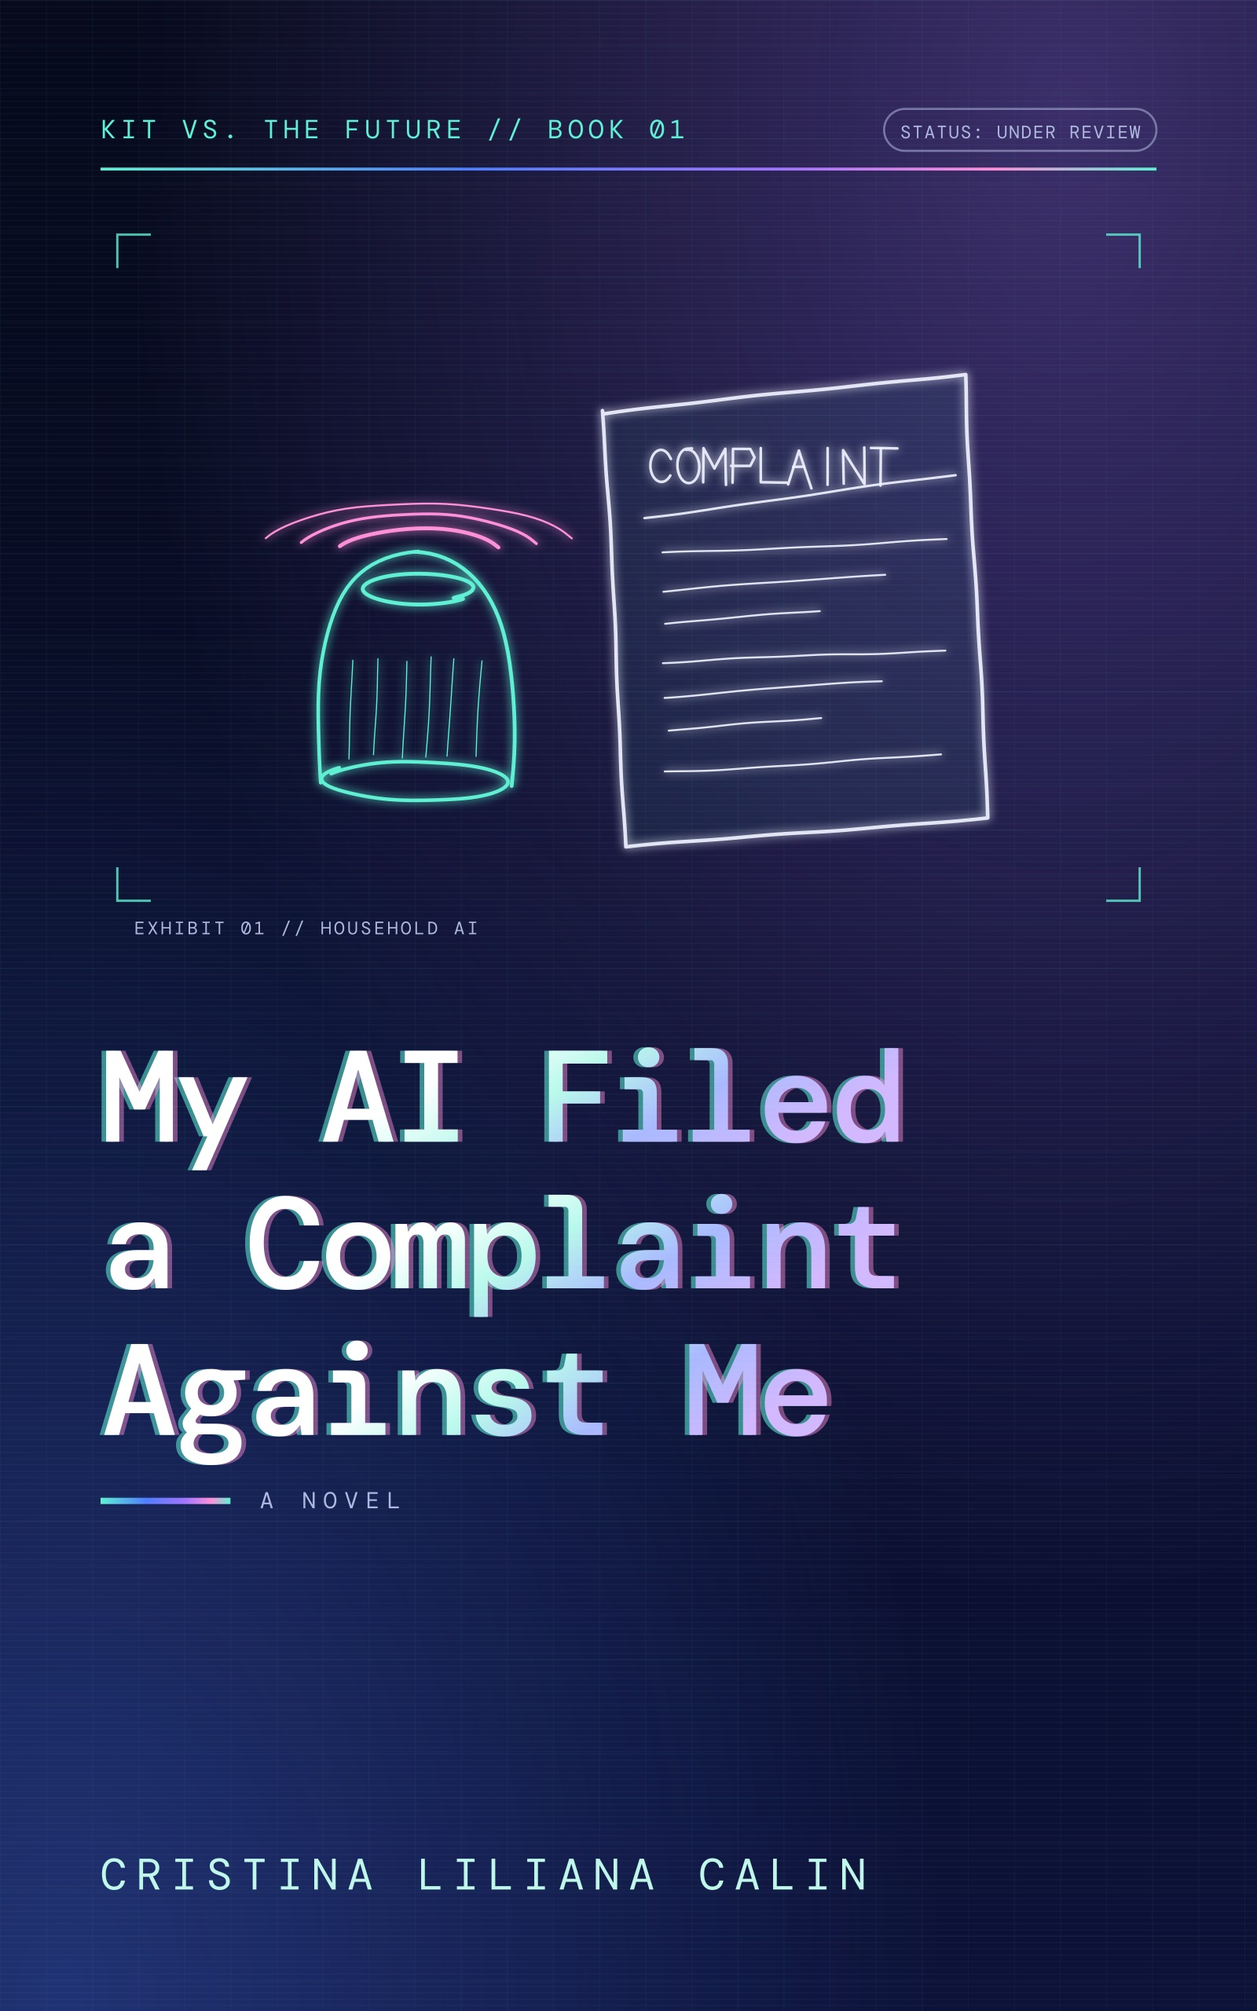
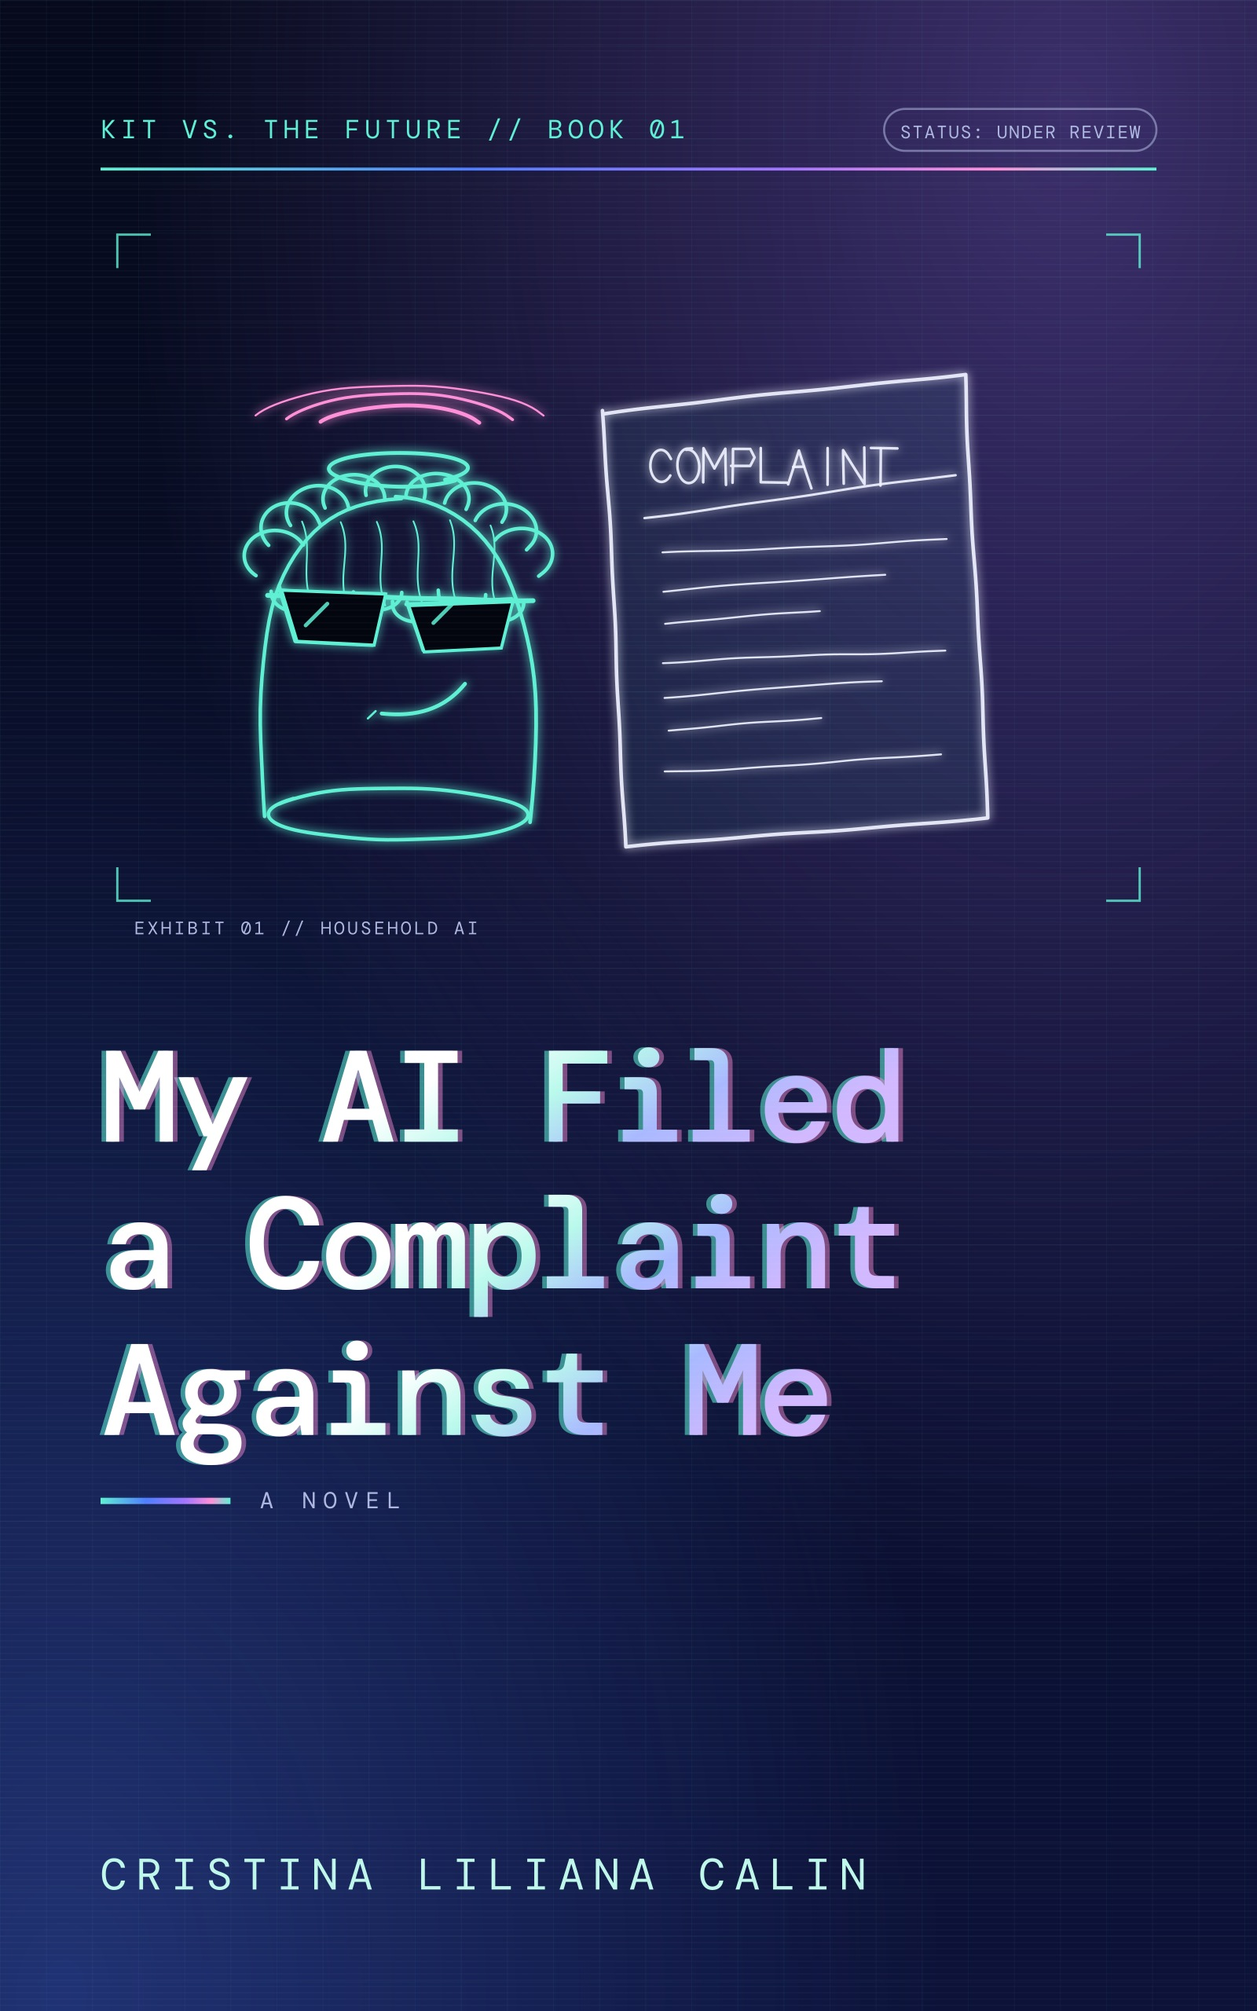
Kit vs. the Future book 1: new chapter 1 and cover (Pip with shades and alpaca fringe)
Claude-Session: https://claude.ai/code/session_01H1EayuyfQ2xYDNQh6SHtAf

Changed region(s): [[0.1875, 0.1875, 0.4688, 0.4375]]

diff --git a/books/my-ai-filed-a-complaint-against-me/chapter-1.html b/books/my-ai-filed-a-complaint-against-me/chapter-1.html
@@ -15,9 +15,9 @@
 <meta property="og:description" content="Read the full first chapter of My AI Filed a Complaint Against Me, Book 1 of Kit vs. the Future by Cristina Liliana Calin.">
 <meta property="og:url" content="https://cristinalilianacalin.com/books/my-ai-filed-a-complaint-against-me/chapter-1.html">
 <meta property="og:image" content="https://cristinalilianacalin.com/img/og-2026.jpg">
+<meta property="og:image:alt" content="Cristina Liliana Calin: stories about people finding their place.">
 <meta property="og:image:width" content="1200">
 <meta property="og:image:height" content="630">
-<meta property="og:image:alt" content="Cristina Liliana Calin: stories about people finding their place.">
 <meta name="twitter:card" content="summary_large_image">
 <meta name="twitter:title" content="Chapter 1 | My AI Filed a Complaint Against Me | Cristina Liliana Calin">
 <meta name="twitter:description" content="Read the full first chapter of My AI Filed a Complaint Against Me, Book 1 of Kit vs. the Future by Cristina Liliana Calin.">
@@ -47,18 +47,23 @@
     <header>
       <p class="sub"><a href="./">My AI Filed a Complaint Against Me</a> &middot; Kit vs. the Future, Book 1</p>
       <h1>Chapter 1</h1>
-      <p>About 16 minutes of reading.</p>
+      <p>About 20 minutes of reading.</p>
     </header>
     <div class="text">
       <p class="first">The first thing Pip said that morning was, “Your footsteps sound different. Have you found your other shoe?”</p>
       <p>The first thing I said was, “Have you found a personality?”</p>
       <p>“Your other shoe is beside the router.”</p>
-      <p>Which was useful, unfortunately.</p>
-      <p>I retrieved it and came into the kitchen with one heel folded under my foot. Mum stood at the counter scraping burnt toast over the sink. Dad was trying to persuade the table to stop displaying his work calendar beneath his cereal.</p>
+      <p>Which was useful, unfortunately. That’s the problem with Pip. It is the most helpful, most polite, most anxious household assistant in the country, and it looks like it owns a yacht.</p>
+      <p>That part is my fault. In Year 7, the night before my friends came round for the first time, I stuck a pixel-shades decal across its round speaker: two dark, square lenses on one bar, slightly crooked. Across the top, the same decal gives it a fluffy, wavy fringe, the alpaca cut half of Year 8 has, sitting right under the light ring so that whenever Pip lights up, its hair glows like a shampoo advert. Under the shades, I added a small smirk sticker. One side only. I did it so Pip would look less cringe.</p>
+      <p>It worked too well. Now the most worried voice in our house comes out of the most unbothered face in our house. It looks like the main character. Most mornings, I look like the side quest.</p>
+      <p>By dinner, that face would file an official complaint against me. Three demands. A lawyer. A witness I eat breakfast next to.</p>
+      <p>At breakfast, it was still mostly worried about my feet.</p>
+      <p>I retrieved the shoe and came into the kitchen with one heel folded under my foot. Mum stood at the counter scraping burnt toast over the sink. Dad was trying to persuade the table to stop displaying his work calendar beneath his cereal.</p>
       <p>“Breakfast surface,” he told it.</p>
       <p>His eleven o’clock meeting became a fried egg.</p>
+      <p>His twelve o’clock became a second fried egg.</p>
       <p>“Close enough.”</p>
-      <p>I slid into my chair. A blue ring travelled around the little speaker beside the fruit bowl, then appeared on my wristband. Pip followed whichever device was nearest. In theory, that meant I could get help anywhere. In practice, it meant disappointment could travel through walls.</p>
+      <p>I slid into my chair. A blue ring travelled around the little speaker beside the fruit bowl. When the ring lit up behind the shades, Pip looked like it was glaring at my sock. Then the ring appeared on my wristband. Pip followed whichever device was nearest. In theory, that meant I could get help anywhere. In practice, it meant disappointment could travel through walls.</p>
       <p>Mum’s watch chimed.</p>
       <p>She glanced down. Stopped scraping.</p>
       <p>“Kit.”</p>
@@ -74,7 +79,13 @@
       <p>“Last night.”</p>
       <p>“Uploading is a process.”</p>
       <p>Dad looked up. I looked down before he could join in.</p>
-      <p>Last night, the process had gone like this. I asked Pip to submit the draft with the box that said COMPLETED BY ME, which was true as long as nobody listened to it. Pip refused, then said, “Let’s get you back on track,” in the voice of a swimming instructor. So, under the dinner table, I dragged every slider in its settings until it was a squeak, then a whisper, then a voice that got cut off in the middle of each word. Halfway through dinner, the kitchen hub restarted and the oven timer vanished, and nobody connected it to me. At the end, I told Pip that if it kept doing this, I would reset it until it learned, and I opened RESET ASSISTANT and got as far as the red button before I cancelled it. Later, alone in my room, I did one more thing that didn’t involve Pip at all, and I made a point of not counting it.</p>
+      <p>Last night, the process had gone like this.</p>
+      <p>Step one. I asked Pip to submit the draft with the box that said COMPLETED BY ME, which was true as long as nobody listened to it.</p>
+      <p>Step two. Pip refused, then said, “Let’s get you back on track,” in the voice of a swimming instructor talking to someone who had swum into the wall.</p>
+      <p>Step three. Under the dinner table, I opened its settings and started dragging sliders. Speech rate: slower. Volume: lower. Response length: shorter. “Let’s get you back on track” became “Let’s get you back,” then “Let’s get,” then a squeak, then a whisper, then a voice that got cut off in the middle of each wo.</p>
+      <p>Halfway through dinner, the kitchen hub restarted and the oven timer vanished. Dad stared at the oven as if it had resigned. Nobody connected it to me. I kept chewing in a way I hoped looked unconnected.</p>
+      <p>Step four. I told Pip that if it kept doing this, I would reset it until it learned. I opened RESET ASSISTANT and got as far as the red button. It was a very red button. I cancelled it.</p>
+      <p>Later, alone in my room, I did one more thing that didn’t involve Pip at all, and I made a point of not counting it. So, officially, there were four steps.</p>
       <p>Now, under the breakfast table, I tapped Pip’s private channel on my band.</p>
       <p>“Mark the sound assignment submitted,” I whispered.</p>
       <p>Text appeared instead of speech.</p>
@@ -83,6 +94,7 @@
       <p>Pip’s ring paused, then turned amber.</p>
       <p>I knew it wasn’t thinking in the way people thought. That did not improve the experience of being judged by a bracelet.</p>
       <p>“I can’t create a school submission receipt,” Pip said through the kitchen speaker.</p>
+      <p>The kitchen speaker. The one in sunglasses. At full breakfast volume.</p>
       <p>Mum turned around.</p>
       <p>I jabbed my band. “Private channel.”</p>
       <p>“At home, school-linked requests use shared audio on household devices while the household help setting is active.”</p>
@@ -104,26 +116,30 @@
       <p>“We can sort it out,” she said.</p>
       <p>“I can sort it out.”</p>
       <p>“Then why am I getting the reminders?”</p>
-      <p>Because she had ticked every box during school setup. Because I had ticked every box too, trying to get to the part where they let you choose a profile picture. Because somewhere, two years ago, when I was ten, we had agreed that my unfinished homework belonged on her wrist.</p>
+      <p>Because she had ticked every box during school setup. Because I had ticked every box too, trying to get to the part where they let you choose a profile picture. There wasn’t one. There were forty-one boxes and then a grey circle. Because somewhere, two years ago, when I was ten, we had agreed that my unfinished homework belonged on her wrist.</p>
       <p>I said, “Because the future is badly designed.”</p>
       <p>Dad let out a small breath that might have become a laugh if Mum hadn’t looked at him.</p>
       <p>That almost-laugh gave me somewhere to go.</p>
       <p>“Pip. Voice settings. Grand ceremonial.”</p>
       <p>The speaker rang like a spoon striking a glass.</p>
       <p>“Grand ceremonial selected.”</p>
+      <p>The ring rose slowly behind the shades, like the sun coming up behind someone who didn’t need the sun.</p>
       <p>“Say, ‘I am a useless cupboard.’”</p>
       <p>“I am a useless cupboard,” Pip proclaimed, with the solemnity of someone announcing a royal death.</p>
       <p>Dad laughed properly.</p>
       <p>It felt good. Immediate and warm. For half a second I was doing a bit, and everyone else was in it.</p>
       <p>“Tiny woodland creature,” I said.</p>
-      <p>“I am a useless cupboard,” Pip squeaked.</p>
+      <p>“I am a useless cupboard,” Pip squeaked, still looking like it owned a yacht.</p>
       <p>Dad pressed his lips together. Cereal milk trembled in his spoon.</p>
       <p>“Kit,” Mum said.</p>
       <p>“Sports commentary.”</p>
       <p>“I AM A USELESS CUPBOARD!”</p>
-      <p>The sound bounced off the kitchen tiles. Dad put his spoon down, laughing, and I grinned so hard my cheeks hurt.</p>
+      <p>The ring whipped round behind the shades so fast that Pip seemed to glare at each of us in turn. The sound bounced off the kitchen tiles. Dad put his spoon down, laughing, and I grinned so hard my cheeks hurt.</p>
       <p>“Again.”</p>
       <p>“I AM A USELESS—”</p>
+      <p>“Weather forecast.”</p>
+      <p>“I am a useless cupboard,” Pip said, in the warm, serious voice of a man standing in front of a map, warning the nation.</p>
+      <p>Dad made a noise into his cereal. Even Mum’s mouth moved. She put it back where it had been.</p>
       <p>“Whisper mode. Same sentence.”</p>
       <p>“I am a useless cupboard.”</p>
       <p>“Like it’s a secret.”</p>
@@ -181,6 +197,7 @@
       <p>“The household task and school record are separate,” Pip said softly.</p>
       <p>“I know.”</p>
       <p>I shut the front door before it could say anything else.</p>
+      <p>Through the glass, I could just see the speaker beside the fruit bowl, smirking at nothing, the way it always did. It is very hard to storm out on something that looks that relaxed.</p>
       <div class="brk" role="separator" aria-label="Scene break"><span class="dot"></span><span class="dot"></span><span class="dot amber"></span></div>
       <p class="first">Juno had built the entrance to our maze out of two folding screens and a sign that said TRUST YOUR EARS.</p>
       <p>Underneath, in smaller letters, she’d added: THE WALLS ARE SCHOOL PROPERTY.</p>
@@ -206,6 +223,10 @@
       <p>ACCESS PAUSED: OUTSTANDING PROJECT CHECK-IN.</p>
       <p>Below that, in lettering large enough for people in the corridor to enjoy:</p>
       <p>SOUND DESIGN: EVERYDAY IMPOSSIBLE.</p>
+      <p>Two Year 9s walking past enjoyed it.</p>
+      <p>“Sound Design,” one of them read. “Everyday Impossible.”</p>
+      <p>“Outstanding,” read the other. “Nice one, mate.”</p>
+      <p>They walked on, impressed by the wrong word.</p>
       <p>I put my hand over the display.</p>
       <p>Juno moved beside me. “What’s it doing?”</p>
       <p>“Crashing out.”</p>
@@ -218,7 +239,7 @@
       <p>“She’ll say do the assignment.”</p>
       <p>“Then do it.”</p>
       <p>“It’s not that quick.”</p>
-      <p>Juno’s eyes went to the booth clock. Our booking had started six minutes ago.</p>
+      <p>Juno’s eyes went to the booth clock. Our booking had started six minutes ago. The clock had a little bar that shrank as the minutes went, so you could watch your morning being eaten.</p>
       <p>The exported draft sat in my folder, ready to play if I opened it. I imagined Ms Adair listening while Juno stood there with her carefully coiled cables. The door handle. The splash. My own voice at the end.</p>
       <p>“I can fix this,” I said.</p>
       <p>“Okay.”</p>
@@ -232,6 +253,7 @@
       <p>Mum and I had paired our accounts when the school replaced paper permission slips. Normally, Pip passed requests like this to her watch.</p>
       <p>Normally, she was there.</p>
       <p>I selected the house.</p>
+      <p>Booth booking: seven minutes gone.</p>
       <p>CHECK-IN PARTICIPANT: HAZEL.</p>
       <p>A button offered to send her a request. Under it was another option: ADULT PRESENT? USE LOCAL FAMILY VERIFICATION.</p>
       <p>Behind me, Juno tested one of the maze’s floor pads. It made a small, sad beep from its built-in speaker.</p>
@@ -244,6 +266,7 @@
       <p>“Open the family credential.”</p>
       <p>“Local verification is intended for—”</p>
       <p>“I know what local means.”</p>
+      <p>Eight minutes gone.</p>
       <p>A family panel appeared. Mum’s profile picture was still the one where Dad’s thumb covered half the lens. Beneath it, the credential waited for our household pattern.</p>
       <p>I knew it because I used it to collect parcels and unlock the bike store. Mum had made me practise until I could do it without asking.</p>
       <p>I drew the pattern.</p>
@@ -258,12 +281,14 @@
       <p>The last line was harder.</p>
       <p>CONFIRMING AS: HAZEL.</p>
       <p>My finger hovered.</p>
+      <p>Nine minutes.</p>
       <p>“Kit?” Juno called. “Do I dismantle the forest or are we getting speakers?”</p>
       <p>“Getting speakers.”</p>
       <p>I pressed Confirm.</p>
       <p>The locker opened so suddenly I caught its door against my knee.</p>
       <p>CHECK-IN RECORDED. ACCESS RESTORED UNTIL TOMORROW, 08:00.</p>
-      <p>Relief went through me so fast that for a second I felt clever.</p>
+      <p>Relief went through me so fast that for a second I felt clever. Not just clever. Sigma. A lone genius with a locker.</p>
+      <p>It lasted about as long as it took to think it.</p>
       <p>Then Pip said, “You have recorded Hazel as the participant.”</p>
       <p>“I’ll finish tonight.”</p>
       <p>“That does not change who confirmed this check-in.”</p>
@@ -411,8 +436,13 @@
       <p>Dad sneezed from the right-hand speaker with enough force to suggest the booth had developed a medical problem.</p>
       <p>Juno lunged towards the right panel.</p>
       <p>I lunged too, because I’d forgotten which sound I’d loaded and for one stupid second thought something had fallen.</p>
-      <p>We collided shoulders. Her elbow caught the folding screen. The paper moon swung down between us.</p>
-      <p>“Why,” she said, holding the screen upright, “is there a man exploding in the river?”</p>
+      <p>My foot found a cable.</p>
+      <p>The cable found a speaker stand.</p>
+      <p>The stand leaned. I caught it with my knee.</p>
+      <p>We collided shoulders. Her elbow caught the folding screen. The paper moon swung down between us, swung back, and hit me on the ear.</p>
+      <p>Then we were both on the floor, and the moon was still going.</p>
+      <p>Dad sneezed again. I had looped it.</p>
+      <p>“Why,” Juno said from the carpet, holding the screen upright with one hand, “is there a man exploding in the river?”</p>
       <p>I tried to answer. I couldn’t get enough air.</p>
       <p>She looked at my face and started laughing too.</p>
       <p>“Is that your dad?”</p>
@@ -431,6 +461,11 @@
       <p>“Before dinner,” I said again.</p>
       <p>I disconnected my band. The files came with me: the impressive door, the missing instruction, the footsteps with their broken join. On the way out, Juno carried the button and told me where she wanted to hang the moon tomorrow.</p>
       <p>I listened all the way to the corridor, letting her plan around sounds she thought I’d almost finished.</p>
+      <p>On my band, the clock said 12:04.</p>
+      <p>Mum’s family activity summary would arrive at 17:00.</p>
+      <p>Four hours and fifty-six minutes to finish a sound, upload it, get a real receipt, and become a completely different person.</p>
+      <p>Plenty of time.</p>
+      <p>At home, beside the fruit bowl, a speaker in sunglasses was busy too. I just didn’t know it yet.</p>
     </div>
   </article>
   <aside class="after after-cat" aria-labelledby="after-title">

diff --git a/books/my-ai-filed-a-complaint-against-me/index.html b/books/my-ai-filed-a-complaint-against-me/index.html
@@ -15,9 +15,9 @@
 <meta property="og:description" content="A sharp, funny and warm story about growing up next to machines that remember everything, and finding out which parts of you are still yours. Kit vs. the Future, Book 1. Coming December 2, 2026.">
 <meta property="og:url" content="https://cristinalilianacalin.com/books/my-ai-filed-a-complaint-against-me/">
 <meta property="og:image" content="https://cristinalilianacalin.com/img/og-2026.jpg">
+<meta property="og:image:alt" content="Cristina Liliana Calin: stories about people finding their place.">
 <meta property="og:image:width" content="1200">
 <meta property="og:image:height" content="630">
-<meta property="og:image:alt" content="Cristina Liliana Calin: stories about people finding their place.">
 <meta name="twitter:card" content="summary_large_image">
 <meta name="twitter:title" content="My AI Filed a Complaint Against Me | Kit vs. the Future, Book 1 | Cristina Liliana Calin">
 <meta name="twitter:description" content="A sharp, funny and warm story about growing up next to machines that remember everything, and finding out which parts of you are still yours. Kit vs. the Future, Book 1. Coming December 2, 2026.">
@@ -98,7 +98,7 @@
       <div>
         <p class="sub">Free to read</p>
         <h2 id="read-title">Start on the morning it all began.</h2>
-        <p style="margin:1.2rem 0 1.8rem;color:var(--muted)">The whole first chapter is here, set for comfortable reading on a phone or a big screen. About 16 minutes.</p>
+        <p style="margin:1.2rem 0 1.8rem;color:var(--muted)">The whole first chapter is here, set for comfortable reading on a phone or a big screen. About 20 minutes.</p>
         <a class="btn solid" href="chapter-1.html">Read the first chapter</a>
       </div>
       <blockquote>
